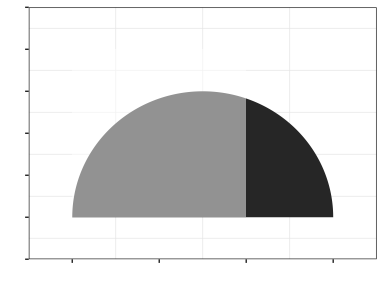
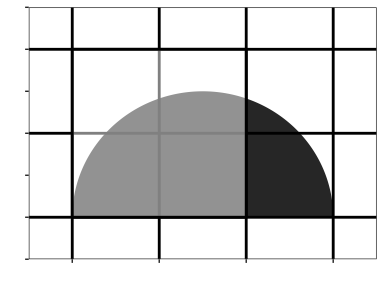
add lines

Changed region(s): [[0.0625, 0.0312, 1.0, 0.9062]]

diff --git a/README.md b/README.md
@@ -20,7 +20,8 @@ plt <-
   scale_x_continuous(name = '', labels = NULL) +
   scale_y_continuous(name = '', labels = NULL) +
   theme_bw() +
-  theme(panel.grid.major = element_blank()) 
+  theme(panel.grid.major = element_blank(),
+        panel.grid.minor = element_blank()) 
 plt
 ```
 
@@ -37,7 +38,9 @@ crcl <-
   )
 plt <-
   plt +
-  geom_polygon(aes(x = x, y = y), crcl)
+  geom_polygon(aes(x = x, y = y), crcl) +
+  geom_vline(xintercept = 0:3, size = 1, color = 'black') +
+  geom_hline(yintercept = 0:3, size = 1, color = 'black')
 plt
 ```
 
@@ -48,10 +51,14 @@ Overlay a transparent rectangle.
 ``` r
 plt <-
   plt +
-  geom_rect(aes(xmin = 0, xmax=2, ymin = 0, ymax = 2),
+  geom_rect(aes(xmin = 0, 
+                xmax = 2, 
+                ymin = 0, 
+                ymax = 2),
             alpha = 0.5,
             fill  = 'white',
-            color = NA)
+            color = 'black', 
+            size  = 1)
 plt
 ```
 
